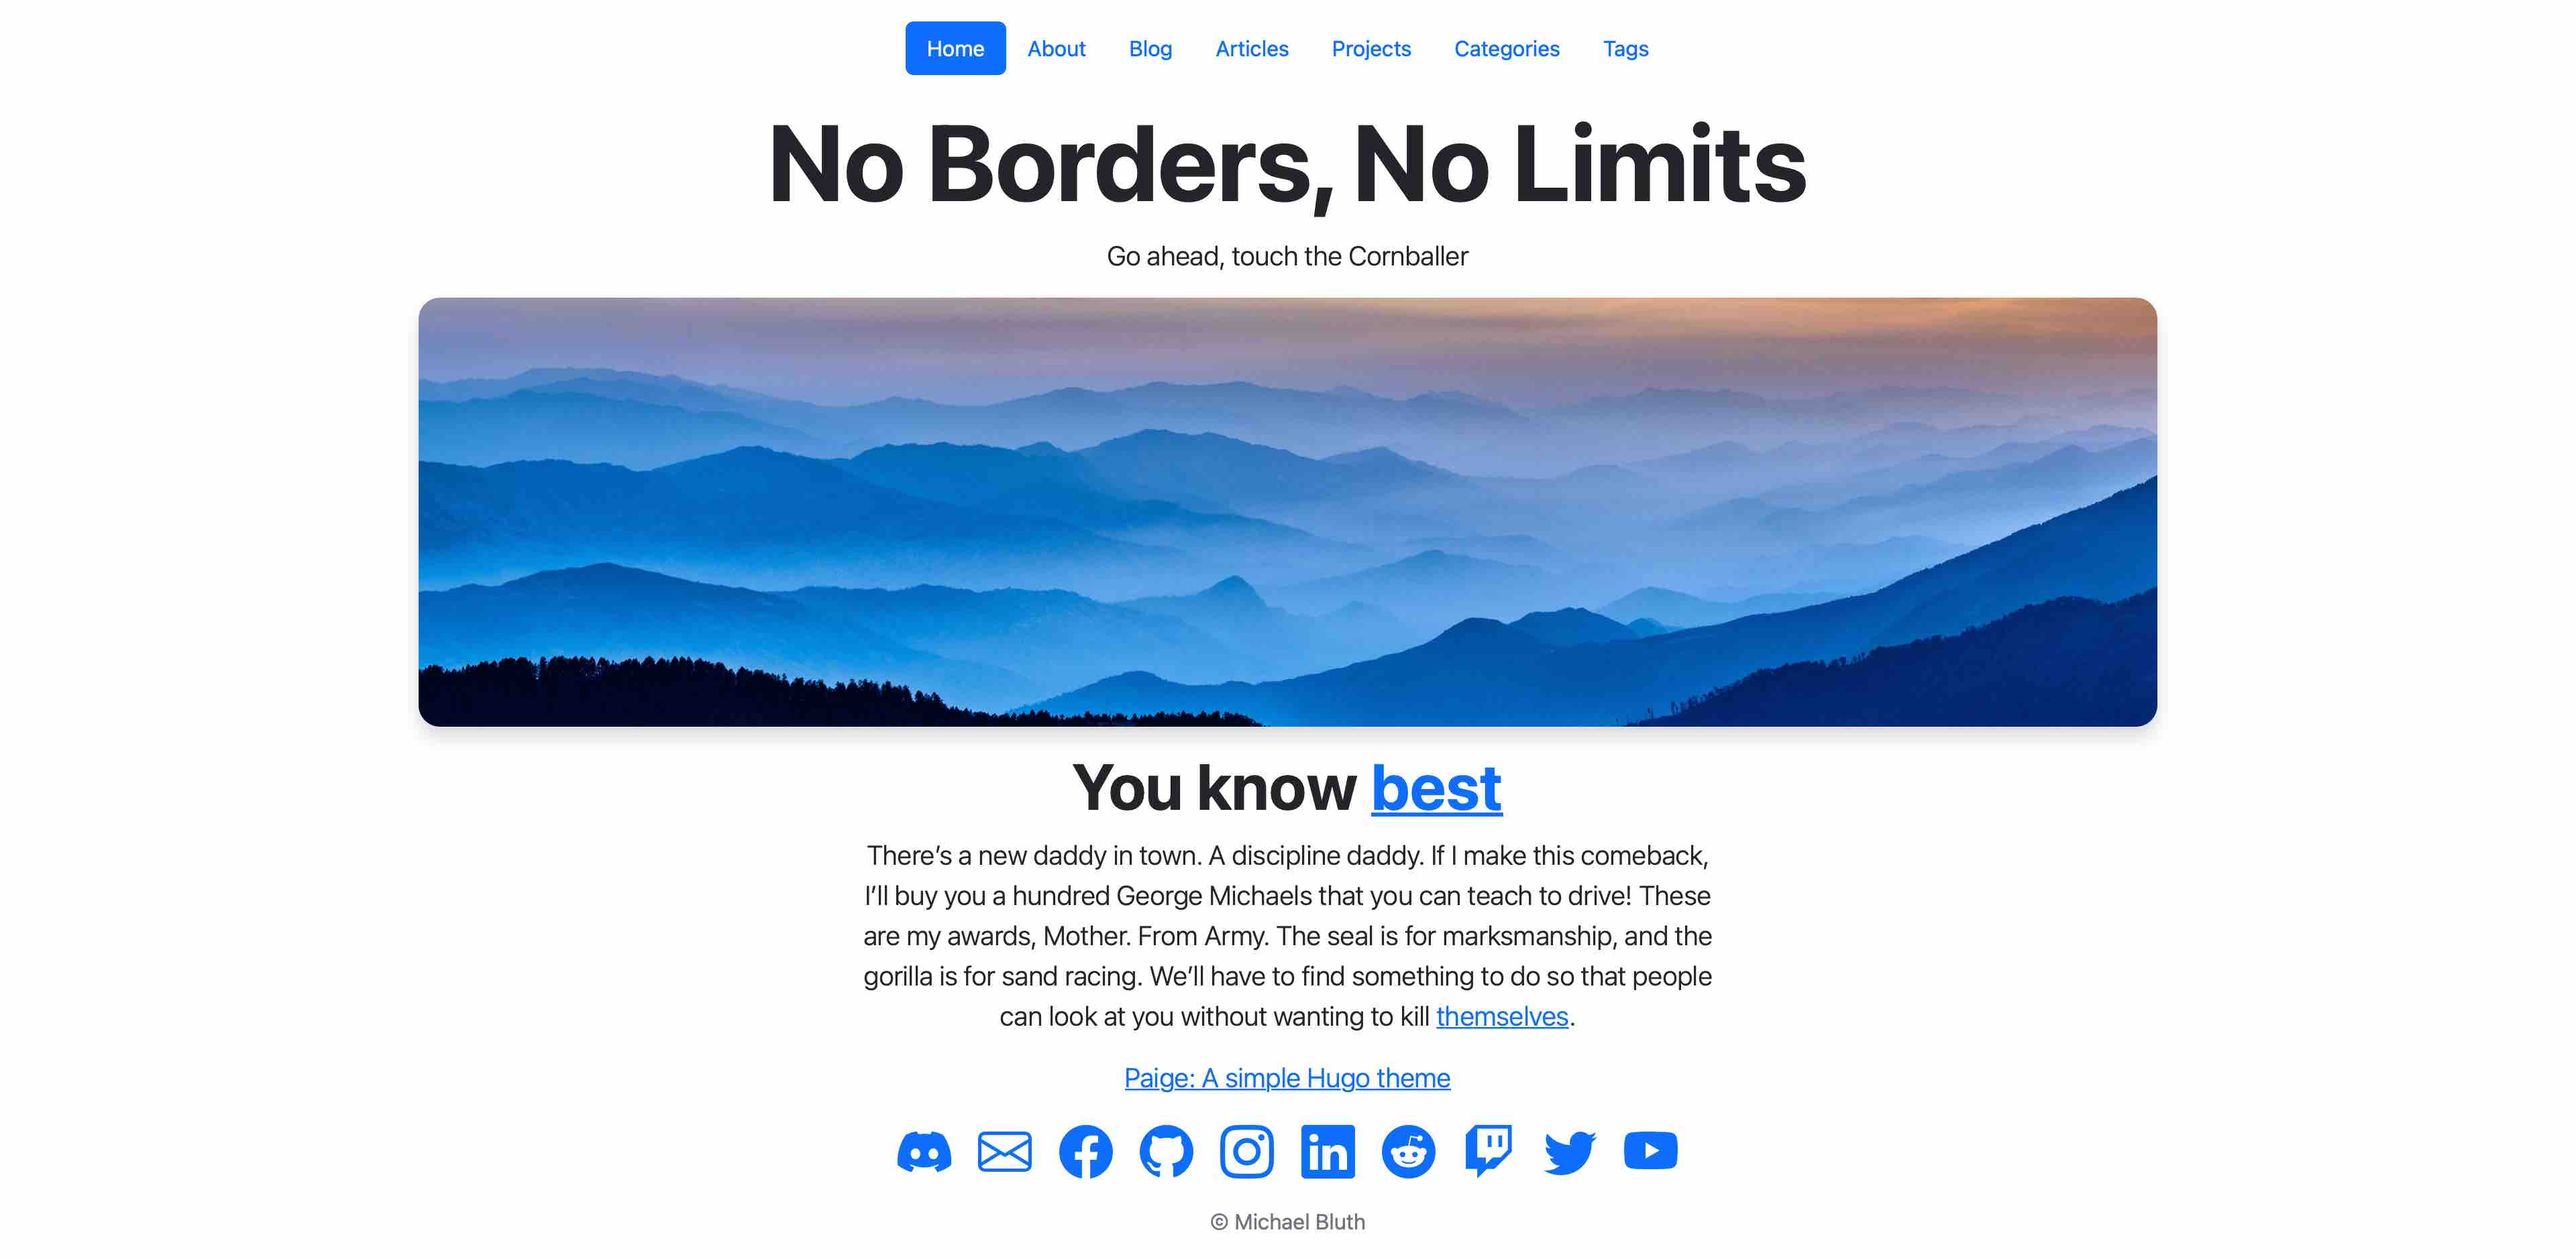
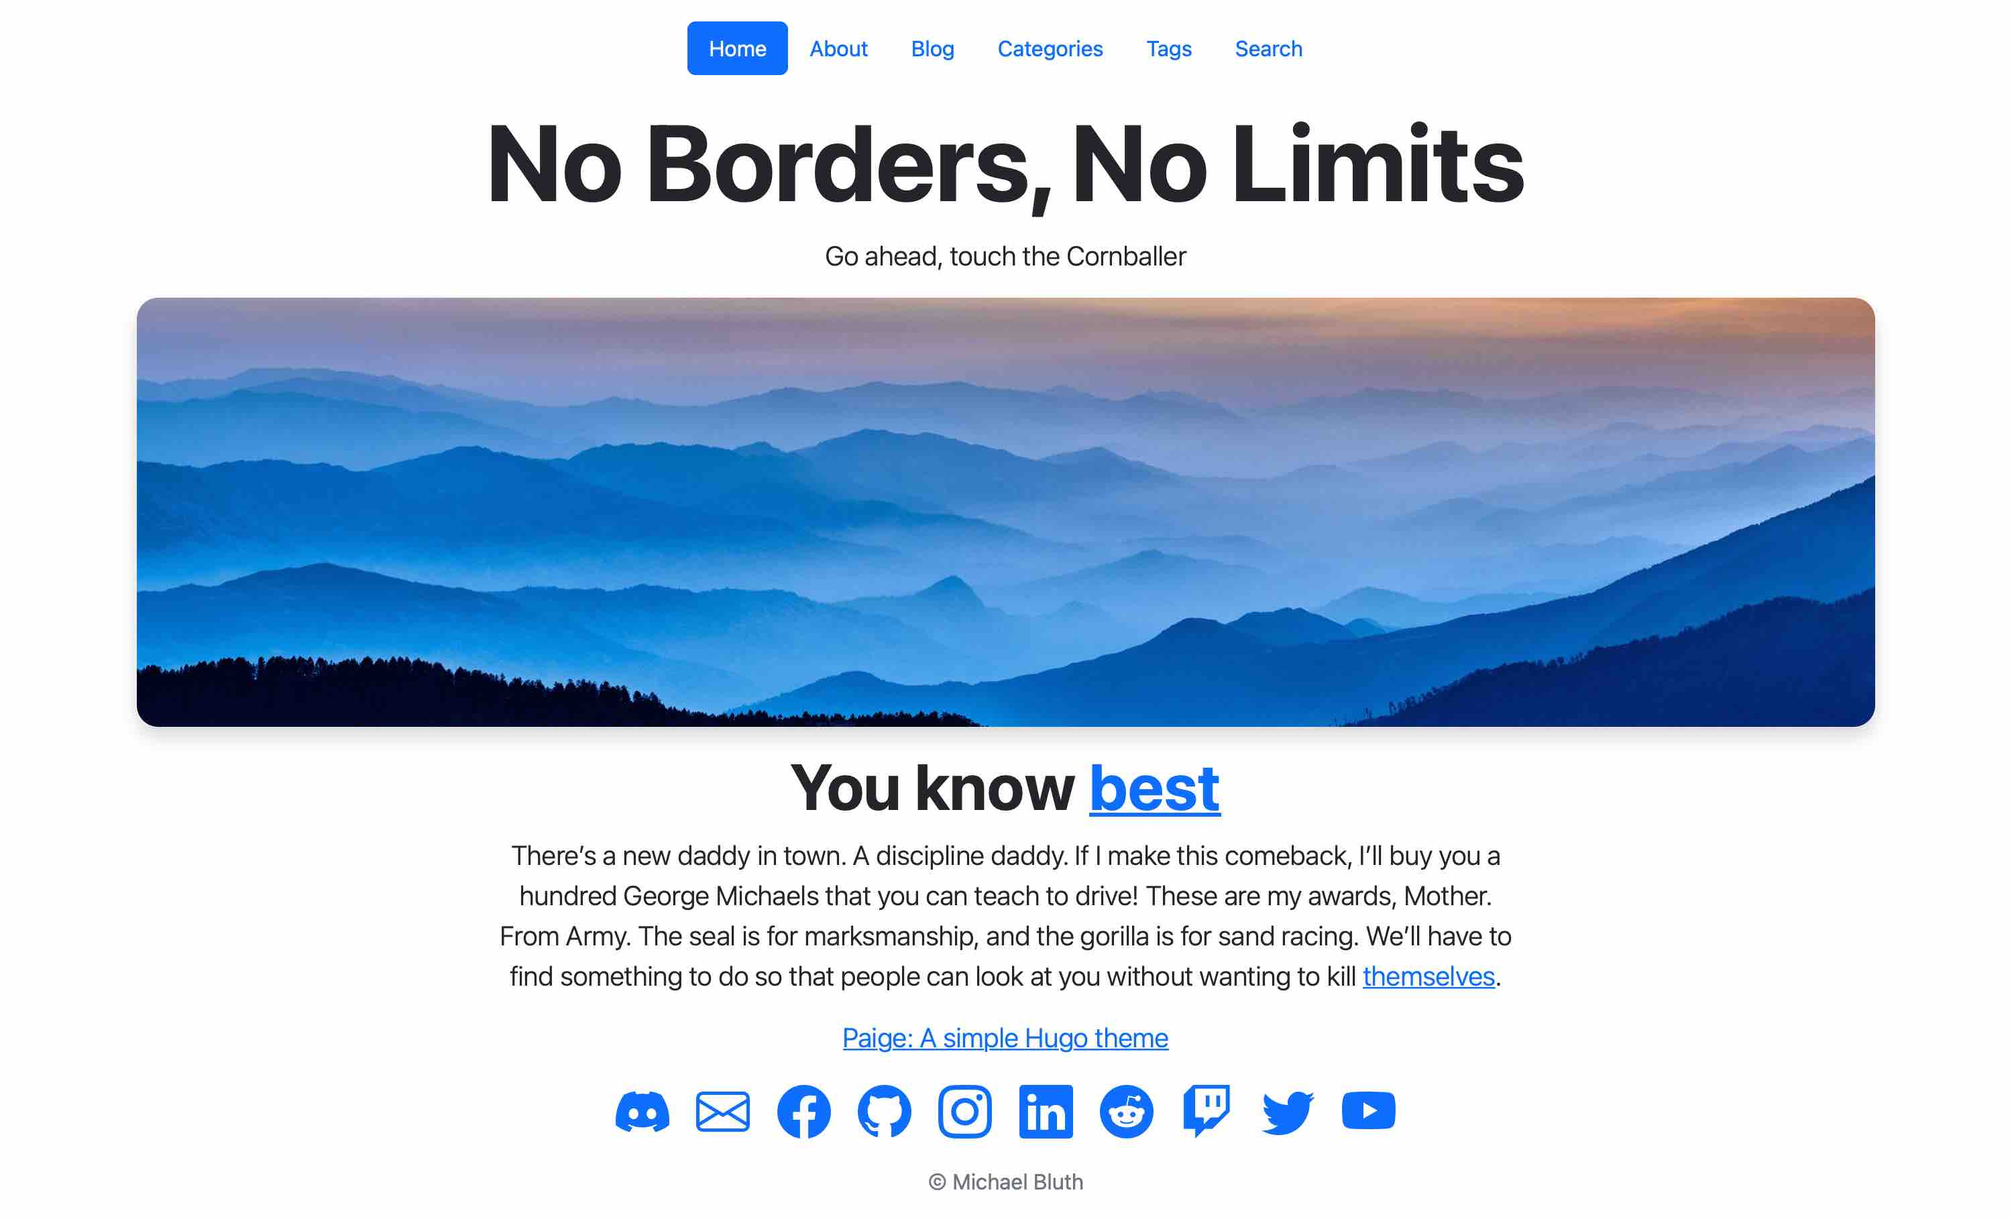
Update screenshots

Changed region(s): [[0.062, 0.0924, 0.93, 0.9857], [0.341, 0.0, 0.651, 0.0616], [0.558, 0.3696, 0.589, 0.4004]]

diff --git a/README.md b/README.md
@@ -16,9 +16,7 @@ Single page:
 
 List page:
 
-<img src="https://github.com/willfaught/paige/raw/master/images/list1.jpg">
-
-<img src="https://github.com/willfaught/paige/raw/master/images/list2.jpg">
+<img src="https://github.com/willfaught/paige/raw/master/images/list.jpg">
 
 Taxonomy page:
 
@@ -31,6 +29,10 @@ Term page:
 404 page:
 
 <img src="https://github.com/willfaught/paige/raw/master/images/404.jpg">
+
+Search page:
+
+<img src="https://github.com/willfaught/paige/raw/master/images/search.jpg">
 
 ## Features
 
